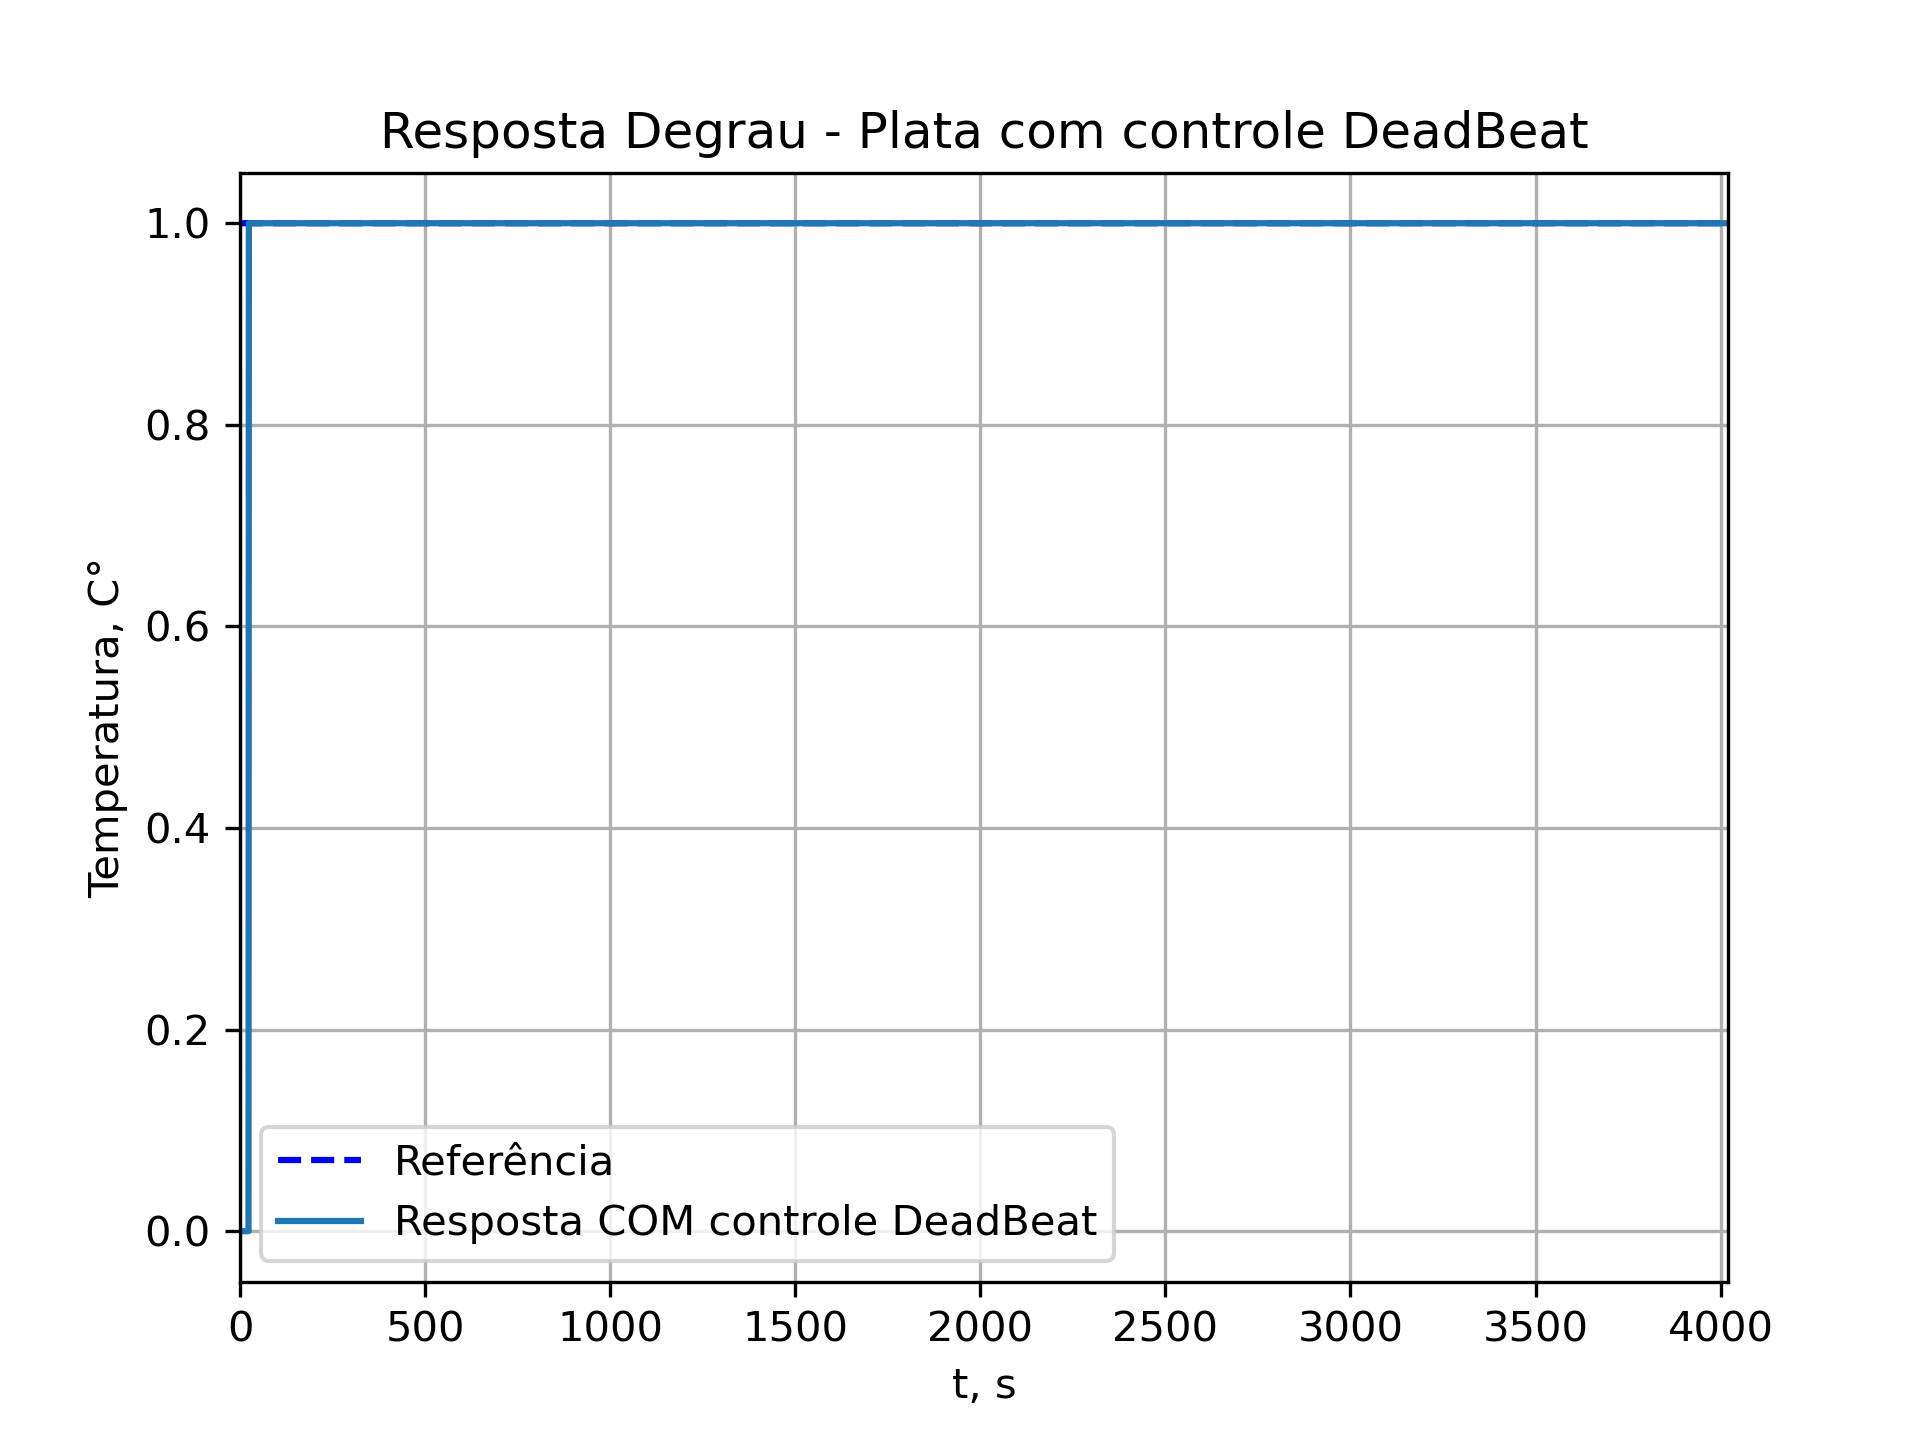
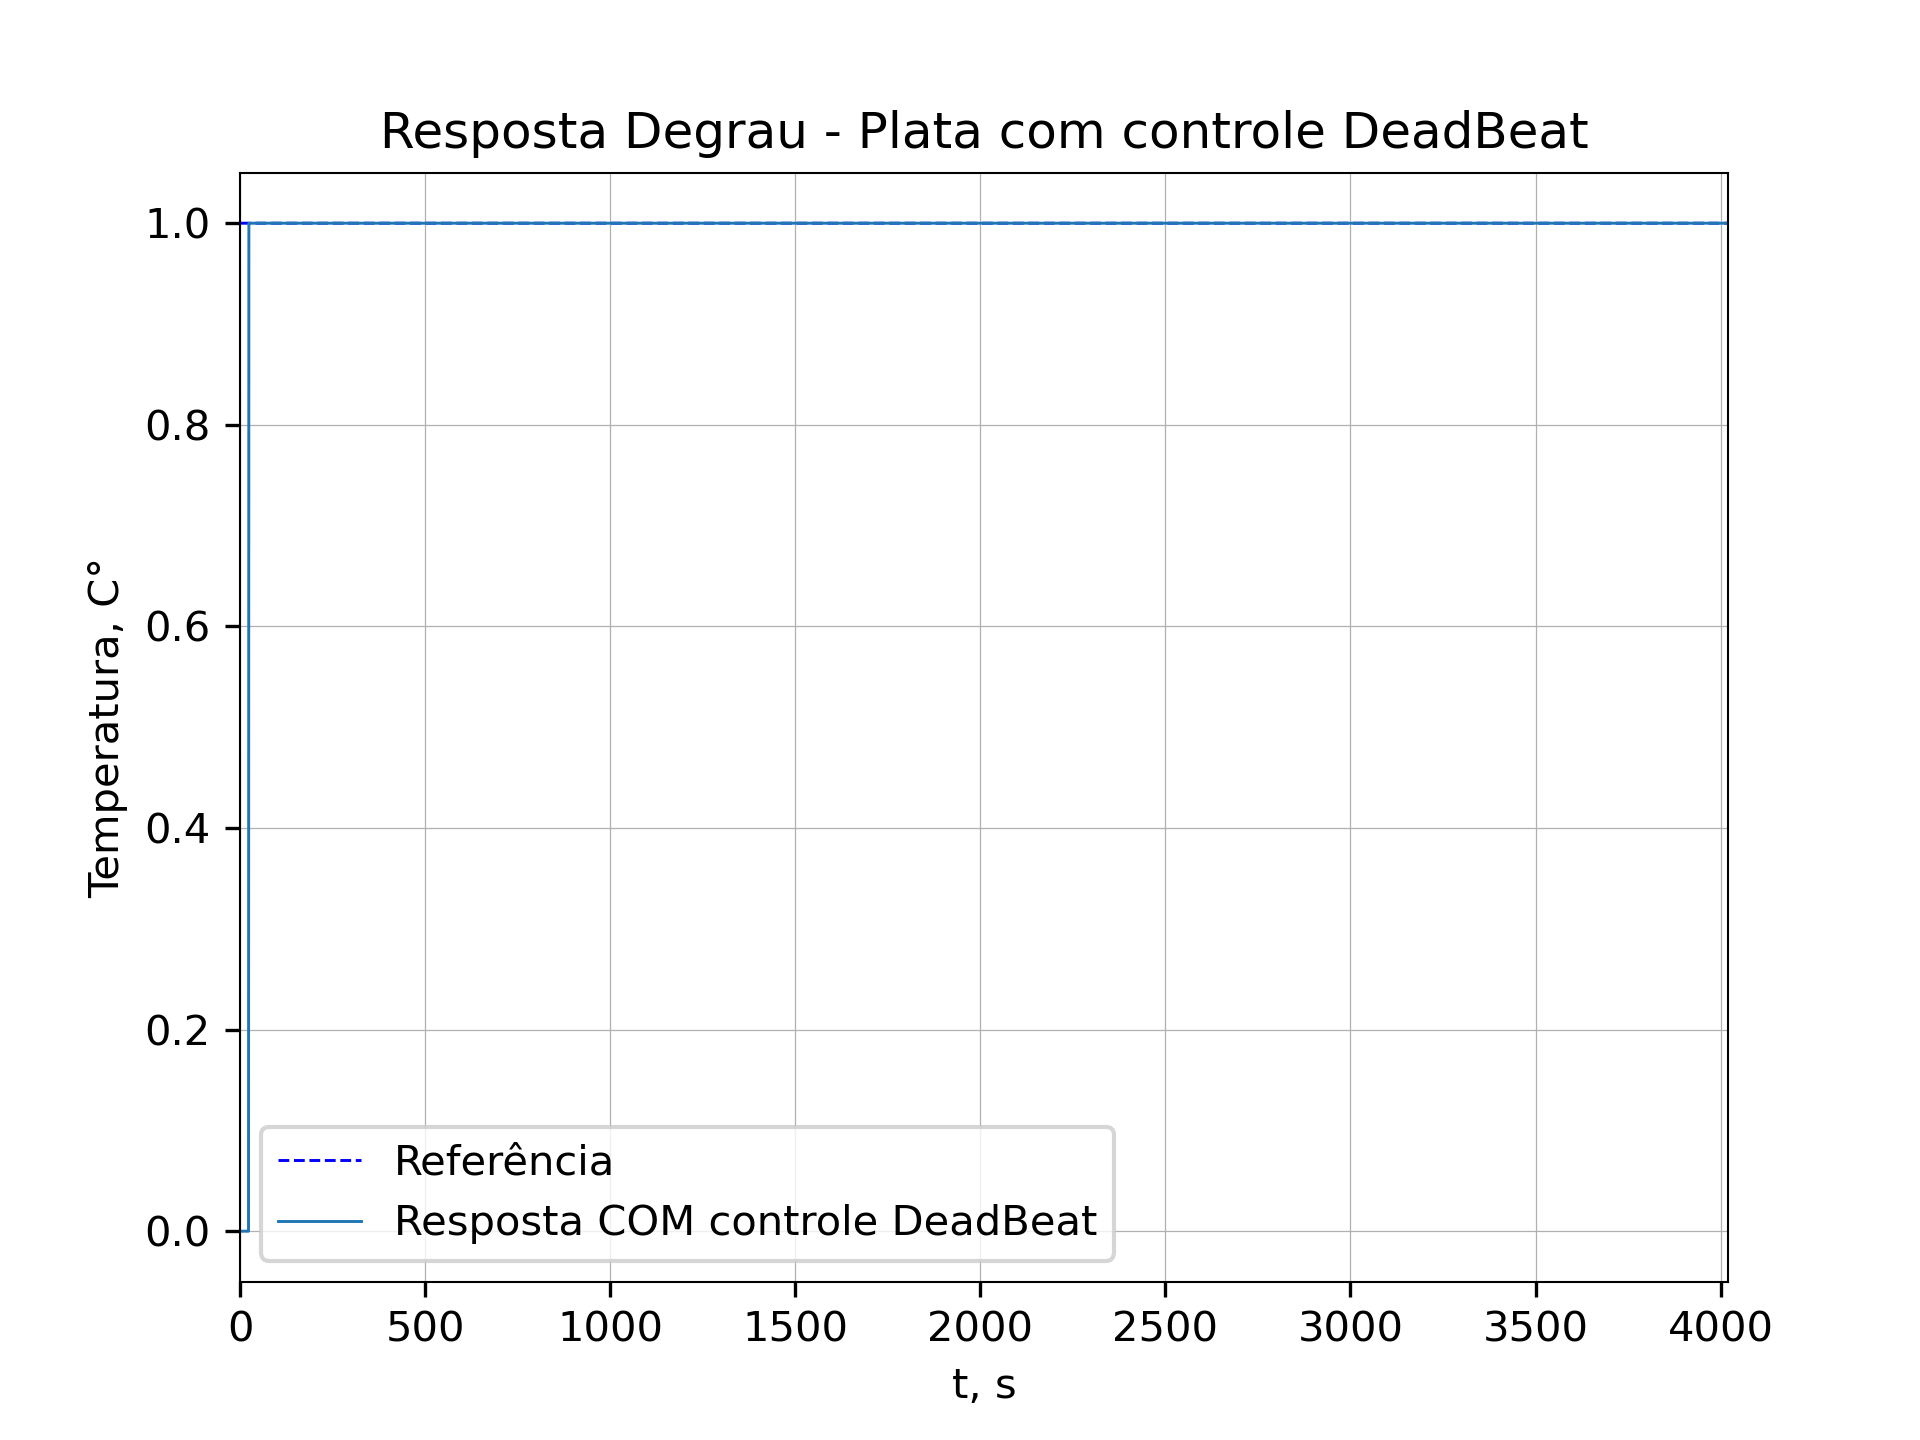
upload 27 de junho

diff --git a/teste_RL_python/ctrl_functions.py b/teste_RL_python/ctrl_functions.py
@@ -87,18 +87,26 @@ def arctand(valor):
   return math.degrees(math.atan(valor))
 
 
-def metodos_disc(kp, ki, t_a, G_D, metodo_projeto, pasta_destino):
-    numCT = [2*kp + t_a*ki, t_a*ki - 2*kp]
-    denCT = [2, -2]
+def metodos_disc(kp, ki, t_a, G, G_D, metodo_projeto, pasta_destino):
+    num = [kp, ki]
+    den = [1, 0]
+    C = ct.tf(num, den)
+
+    numCT = [kp + (t_a*ki)/2, (t_a*ki/2) - kp]
+    denCT = [1, -1]
     CT = ct.tf(numCT, denCT, dt=t_a)
 
-    numCEP = [kp + t_a*ki, - 1]
+    numCEP = [kp, + t_a*ki - kp]
     denCEP = [1, -1]
     CEP = ct.tf(numCEP, denCEP, dt=t_a)
 
-    numCER = [kp, t_a*ki - kp]
+    numCER = [kp + t_a*ki, - kp]
     denCER = [1, -1]
     CER = ct.tf(numCER, denCER, dt=t_a)
+
+    # FTMF Continua com controlador
+    T = ct.feedback(C * G)
+    print(f"FTMF com controlador discretizado por metodo Trapeziodal:\n {T}\n")
 
     # FTMF com controlador discretizado por metodo Trapeziodal
     T_Trapezoidal = ct.feedback(CT * G_D)
@@ -112,28 +120,53 @@ def metodos_disc(kp, ki, t_a, G_D, metodo_projeto, pasta_destino):
     T_Euler_R = ct.feedback(CER * G_D)
     print(f"FTMF com controlador discretizado por metodo Euler regressivo:\n {T_Euler_R}\n")
                                                                             
+    t_t, temperatura_t = ct.step_response(T, T=np.arange(0, 4020, 1))
     t_t_trap, temperatura_t_trap = ct.step_response(T_Trapezoidal, T=np.arange(0, 4020, 1))
     t_t_euler_p, temperatura_t_euler_p = ct.step_response(T_Euler_P, T=np.arange(0, 4020, 1))
     t_t_euler_r, temperatura_t_euler_r = ct.step_response(T_Euler_R, T=np.arange(0, 4020, 1))
 
-    plt.figure()
+    # --- CONFIGURAÇÃO GLOBAL DE LAYOUT FINO ---
+    plt.rcParams['axes.linewidth'] = 0.5    # Deixa as bordas dos gráficos bem finas
+    plt.rcParams['grid.linewidth'] = 0.3    # Deixa as linhas do grid super sutis
+    plt.rcParams['lines.linewidth'] = 0.7   # Espessura padrão para qualquer linha plotada
+
+    plt.figure(figsize=(10, 8))
+
+    # 1. Resposta Contínua
     plt.subplot(2, 2, 1)
-    plt.plot(t_t_trap, temperatura_t_trap, label='Trapeziodal')
-    plt.grid()
-    plt.xlabel('t, s')
-    plt.ylabel(r'Temperatura, °C')
-    plt.legend(loc='best')
+    plt.plot(t_t, temperatura_t, label='Resposta Continua', color='blue')
+    plt.grid(True, linestyle='--', alpha=0.5) # Grid tracejado e sutil
+    plt.xlabel('t, s', fontsize=9)
+    plt.ylabel('Temperatura, °C', fontsize=9)
+    plt.tick_params(axis='both', labelsize=8, width=0.5) # Riscos dos eixos mais finos
+    plt.legend(loc='best', fontsize=8, frameon=True, edgecolor='none') # Legenda limpa
+
+    # 2. Trapezoidal
     plt.subplot(2, 2, 2)
-    plt.plot(t_t_euler_p, temperatura_t_euler_p, label='Euler progressivo')
-    plt.grid()
-    plt.xlabel('t, s')
-    plt.ylabel(r'Temperatura, °C')
-    plt.legend(loc='best')
+    plt.plot(t_t_trap, temperatura_t_trap, label='Trapezoidal', color='orange')
+    plt.grid(True, linestyle='--', alpha=0.5)
+    plt.xlabel('t, s', fontsize=9)
+    plt.ylabel('Temperatura, °C', fontsize=9)
+    plt.tick_params(axis='both', labelsize=8, width=0.5)
+    plt.legend(loc='best', fontsize=8, frameon=True, edgecolor='none')
+
+    # 3. Euler Progressivo
     plt.subplot(2, 2, 3)
-    plt.plot(t_t_euler_r, temperatura_t_euler_r, label='Euler regressivo')
-    plt.grid()
-    plt.xlabel('t, s')
-    plt.ylabel(r'Temperatura, °C')
-    plt.legend(loc='best')
+    plt.plot(t_t_euler_p, temperatura_t_euler_p, label='Euler Progressivo', color='green')
+    plt.grid(True, linestyle='--', alpha=0.5)
+    plt.xlabel('t, s', fontsize=9)
+    plt.ylabel('Temperatura, °C', fontsize=9)
+    plt.tick_params(axis='both', labelsize=8, width=0.5)
+    plt.legend(loc='best', fontsize=8, frameon=True, edgecolor='none')
+
+    # 4. Euler Regressivo
+    plt.subplot(2, 2, 4)
+    plt.plot(t_t_euler_r, temperatura_t_euler_r, label='Euler Regressivo', color='red')
+    plt.grid(True, linestyle='--', alpha=0.5)
+    plt.xlabel('t, s', fontsize=9)
+    plt.ylabel('Temperatura, °C', fontsize=9)
+    plt.tick_params(axis='both', labelsize=8, width=0.5)
+    plt.legend(loc='best', fontsize=8, frameon=True, edgecolor='none')
+
     plt.tight_layout()
-    plt.savefig(os.path.join(pasta_destino, f'Comparação do metodos de discretização{metodo_projeto}.png'), dpi=300)
+    plt.savefig(os.path.join(pasta_destino, f'Comparação do metodos de discretização {metodo_projeto}.png'), dpi=300)

diff --git a/teste_RL_python/ctrl.py b/teste_RL_python/ctrl.py
@@ -269,7 +269,7 @@ plt.title(titulo_6)
 plt.savefig(os.path.join(pasta_RL, f'{titulo_6}.png'), dpi=300)
 
 
-lc.metodos_disc(kp, ki, t_a, G_D, 'Root Locus', pasta_RL)
+lc.metodos_disc(kp, ki, t_a, G, G_D, 'Root Locus', pasta_RL)
 
 #---------------------------------------- CHR -------------------------------------------------#
 
@@ -280,11 +280,11 @@ ki_chr = kp_chr/ti_chr
 print(f"kp_chr = {kp_chr}")
 print(f"ki_chr = {ki_chr}")
 
-lc.metodos_disc(kp_chr, ki_chr, t_a, G_D, 'CHR', pasta_CHR)
+lc.metodos_disc(kp_chr, ki_chr, t_a, G, G_D, 'CHR', pasta_CHR)
 
 #---------------------------------------- IMC -------------------------------------------------#
 
-lamb = 2*t_morto
+lamb = 3*t_morto
 kp_imc = (2*tau - t_morto)/(k*2*lamb)
 ti_imc = tau + (lamb/2)
 ki_imc = kp_imc/ti_imc
@@ -292,7 +292,7 @@ ki_imc = kp_imc/ti_imc
 print(f"kp_imc = {kp_imc}")
 print(f"ki_imc = {ki_imc}")
 
-lc.metodos_disc(kp_imc, ki_imc, t_a, G_D, 'IMC', pasta_IMC)
+lc.metodos_disc(kp_imc, ki_imc, t_a, G, G_D, 'IMC', pasta_IMC)
 
 #---------------------------------------- DeadBeat -------------------------------------------------#
 
@@ -333,4 +333,4 @@ ki_zn = kp_zn/ti_zn
 print(f"kp_zn = {kp_zn}")
 print(f"ki_zn = {ki_zn}")
 
-lc.metodos_disc(kp_zn, ki_zn, t_a, G_D, 'ZN', pasta_ZN)
+lc.metodos_disc(kp_zn, ki_zn, t_a, G, G_D, 'ZN', pasta_ZN)